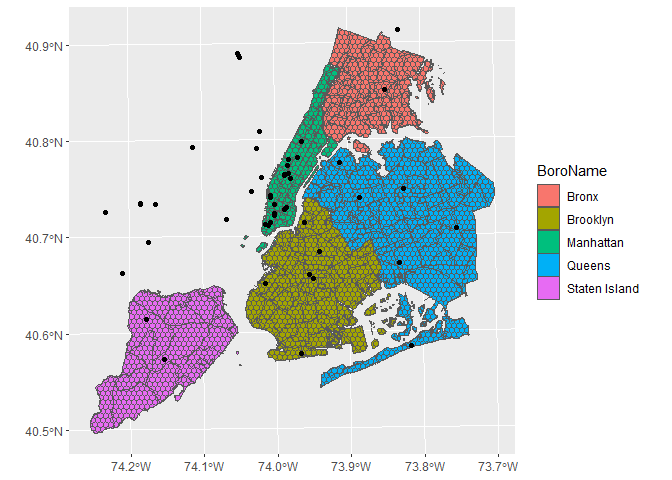
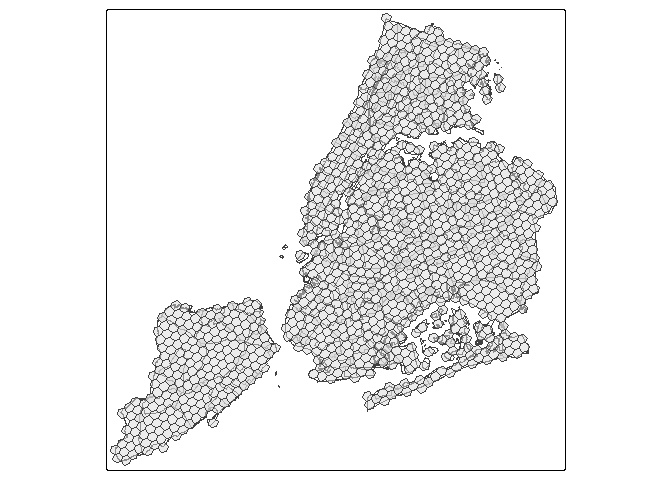
Created post density heat map, needs adjustment before spatial analysis

diff --git a/Data-exploration.md b/Data-exploration.md
@@ -40,7 +40,7 @@ head(nycDataSept)
 
 ``` r
 #Cutting off first 100 rows
-sub_nyc_data <- slice_head(nycDataSept, n = 100)
+sub_nyc_data <- slice_head(nycDataSept, n = 10000)
 # Extracting useful data and converting it into a simple feature
 sf_nyc_data <- sub_nyc_data %>% 
   select(id, u_id, home, lon, lat) %>% 
@@ -54,17 +54,105 @@ ggplot() +
 
 ``` r
 # Setting up basemap
-nynta <- read_sf(here("project_data/nynta2020_25d/nynta2020.shp"))
+nynta <- read_sf(here("analysis/data/raw_data/nynta2020_25d/nynta2020.shp"))
 nynta_proj <- st_transform(nynta, crs = 6347)
-grid_map <- nynta_proj %>% 
-  st_make_grid(cellsize = 600, square = F, crs = st_crs(nynta_proj))
-# created a 600m cell size grid to overlay the map
-grid_map <- st_intersection(grid_map, nynta_proj)
-# cut down the grid to only include grid cells that intersect the NYC boundaries
-ggplot()+
-  geom_sf(data = nynta_proj["BoroName"], aes(fill = BoroName))+
-  geom_sf(data = grid_map, fill = NA)+
-  geom_sf(data = sf_nyc_data)
+#creating a buffer so these is less edges being left out of h3 grid
+nynta_buffer <- nynta_proj["BoroName"] %>% 
+  st_buffer(dist = 100)
+#Creating H3 gridmap
+grid_map <-nynta_buffer %>%
+  polygon_to_cells(res = h3_res) %>% 
+  cell_to_polygon(simple = T)
 ```
 
+    ## Data has been transformed to EPSG:4326.
+
+``` r
+# ploting h3 map over basemap
+tm_shape(nynta_proj["BoroName"])+
+  tm_borders()+
+  tm_shape(grid_map)+
+  tm_polygons(alpha = 0.5)
+```
+
+    ## 
+
+    ## ── tmap v3 code detected ───────────────────────────────────────────────────────
+
+    ## [v3->v4] `tm_polygons()`: use `fill_alpha` instead of `alpha`.
+
 ![](Data-exploration_files/figure-gfm/unnamed-chunk-5-1.png)<!-- -->
+
+``` r
+#Creating the interaction matrix for the h3 Cells
+#get the h3 Cell names
+grid_map_index <- nynta_buffer %>% 
+  polygon_to_cells(, res = h3_res)
+```
+
+    ## Data has been transformed to EPSG:4326.
+
+``` r
+current_index = 0
+#unpack it from the weird list the h3 function outputs
+keys <- unlist(grid_map_index)
+# create a list of length 2 for martix names, using the h3 cell names as indexes for the matrix
+key_list <- list(keys, keys)
+# Building martix with cell filled with integer 0 ~1400 col & rows
+h3_interaction_matrix <- matrix(data = 0, nrow = length(keys), ncol = length(keys), dimnames = key_list)
+```
+
+``` r
+#messing around with the september twitter data to population the matrix
+
+#getting list of unique user IDs
+user_ids <- nycDataSept$u_id %>% 
+  unique()
+
+#Create a h3 cell index on nyc data
+h3_nyc_data <- nycDataSept %>% 
+  mutate(h3_cell = latLngToCell(lat = lat, lng = lon, resolution = h3_res)) %>% 
+  select(u_id, home, h3_cell)
+
+#selecting user post data where the user posted more than 10 times and less than 200 during study period
+h3_nyc_data_slim <- h3_nyc_data %>% 
+  group_by(u_id) %>% 
+  filter(n() > 10 && n() < 200) %>%
+  ungroup()
+
+# converting h3 cells to multipolygons
+h3_nyc_data_slim %>% 
+  group_by(u_id) %>% 
+  pull(h3_cell) %>% 
+  cells_to_multipolygon()
+```
+
+    ## Geometry set for 1 feature 
+    ## Geometry type: MULTIPOLYGON
+    ## Dimension:     XY
+    ## Bounding box:  xmin: -74.26574 ymin: 40.50056 xmax: -73.69027 ymax: 40.92204
+    ## Geodetic CRS:  WGS 84
+
+    ## MULTIPOLYGON (((-74.26216 40.89917, -74.26411 4...
+
+``` r
+#creating cell counts data frame
+counted_cells <- h3_nyc_data_slim %>% 
+  group_by(h3_cell) %>% 
+  mutate(count = n()) %>%
+  select(h3_cell, count) %>%
+  ungroup() %>% 
+  distinct(h3_cell, count) %>%
+  mutate(geometry = cell_to_polygon(h3_cell)) %>% 
+  st_sf()
+
+#plotting post heatmap
+#TODO use the local dataset 
+#TODO Use Jenks or Quantile distribution for the map fill
+tm_shape(nynta["BoroName"])+
+  tm_borders()+
+  tm_shape(counted_cells)+
+  tm_polygons(fill = "count", fill_alpha = .5)
+```
+
+![](Data-exploration_files/figure-gfm/unnamed-chunk-8-1.png)<!-- -->